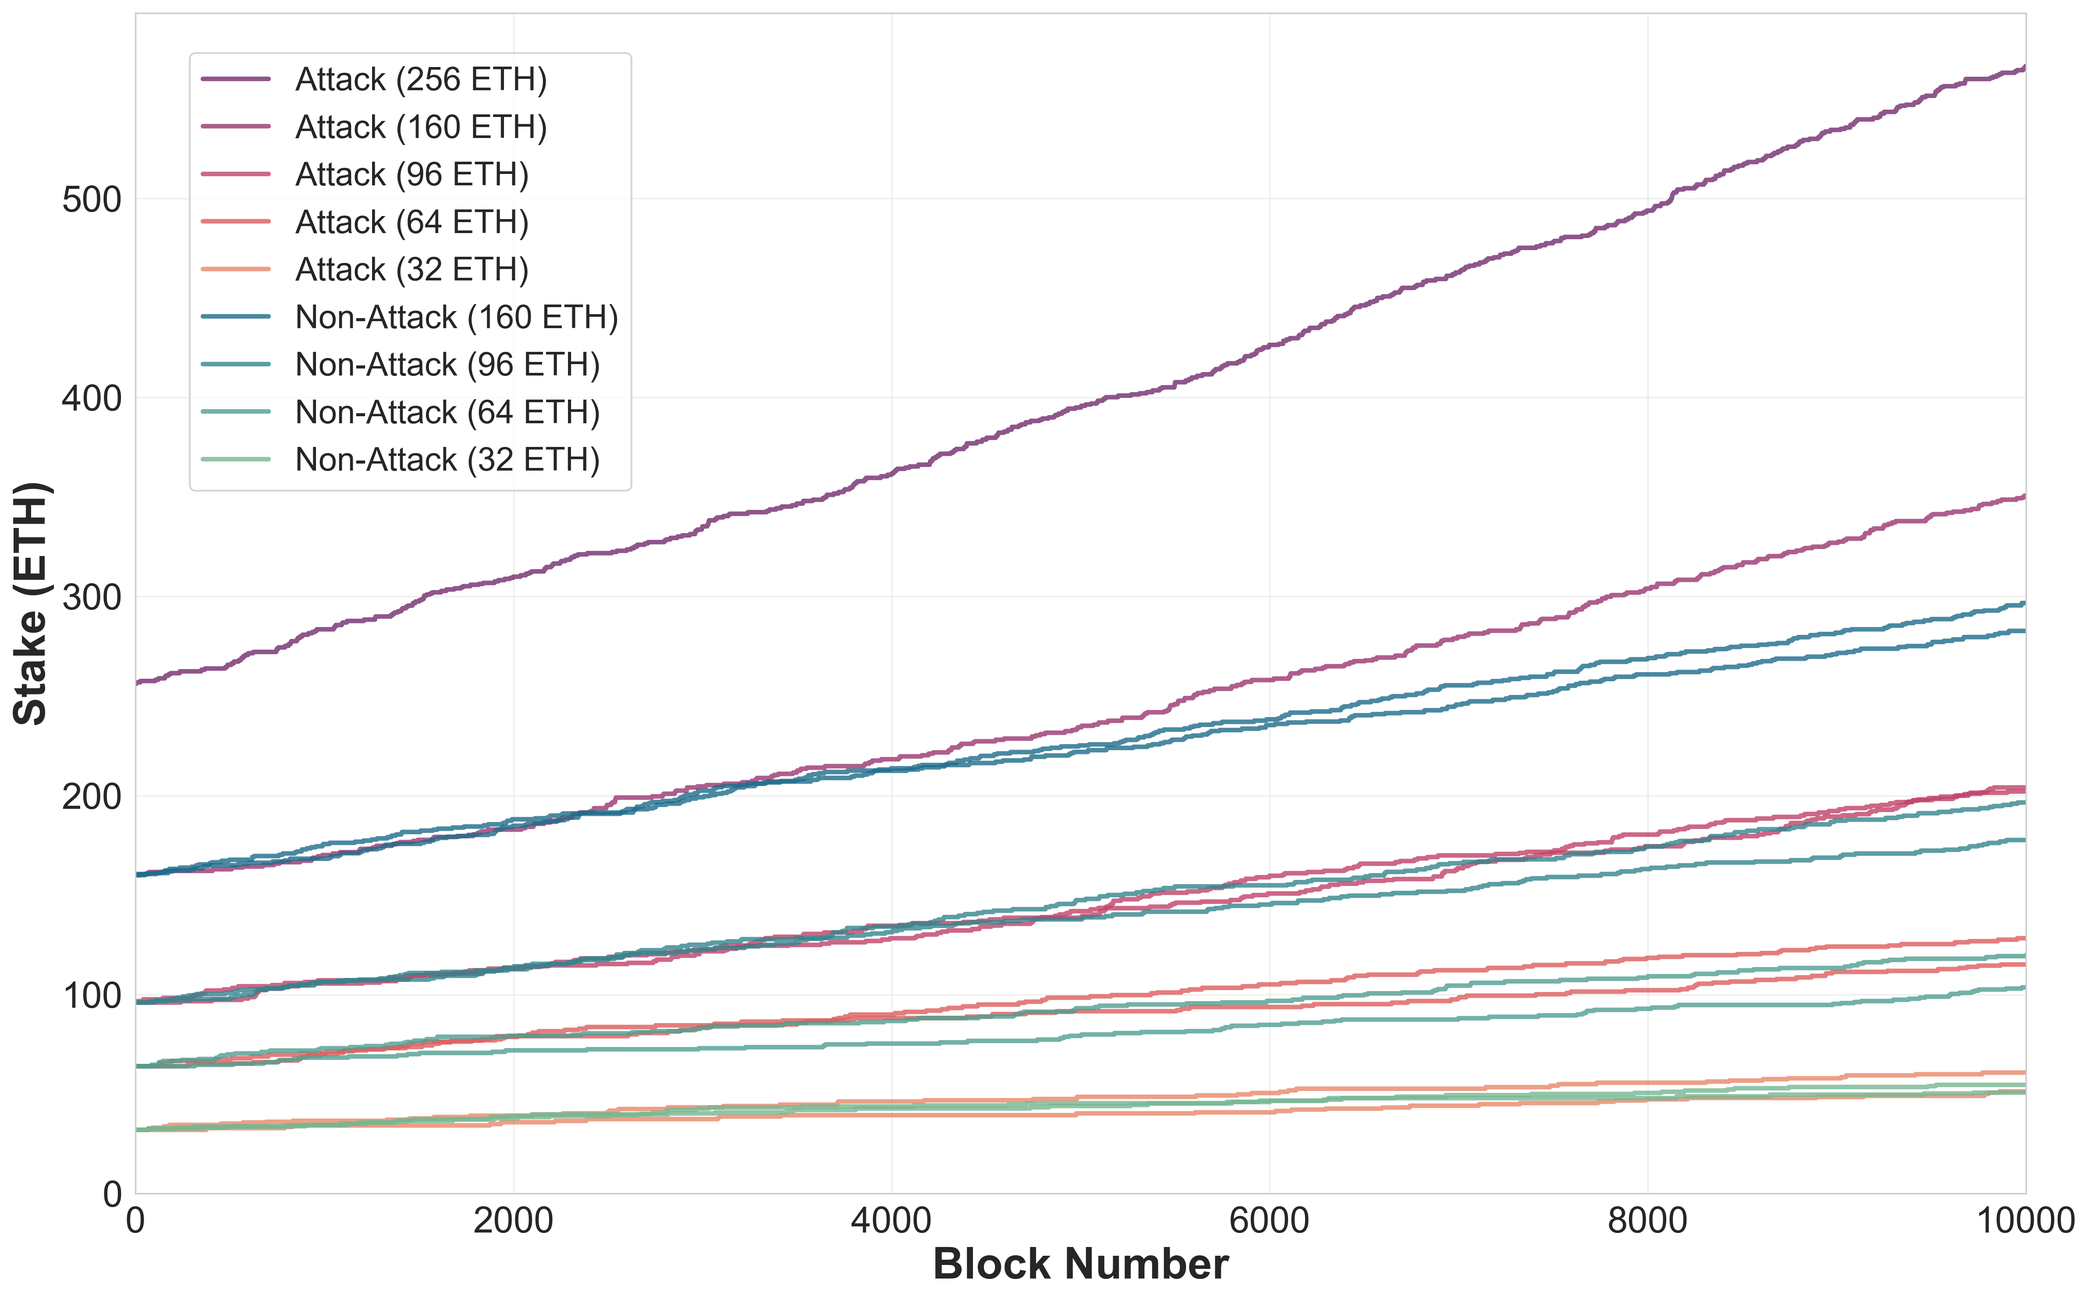
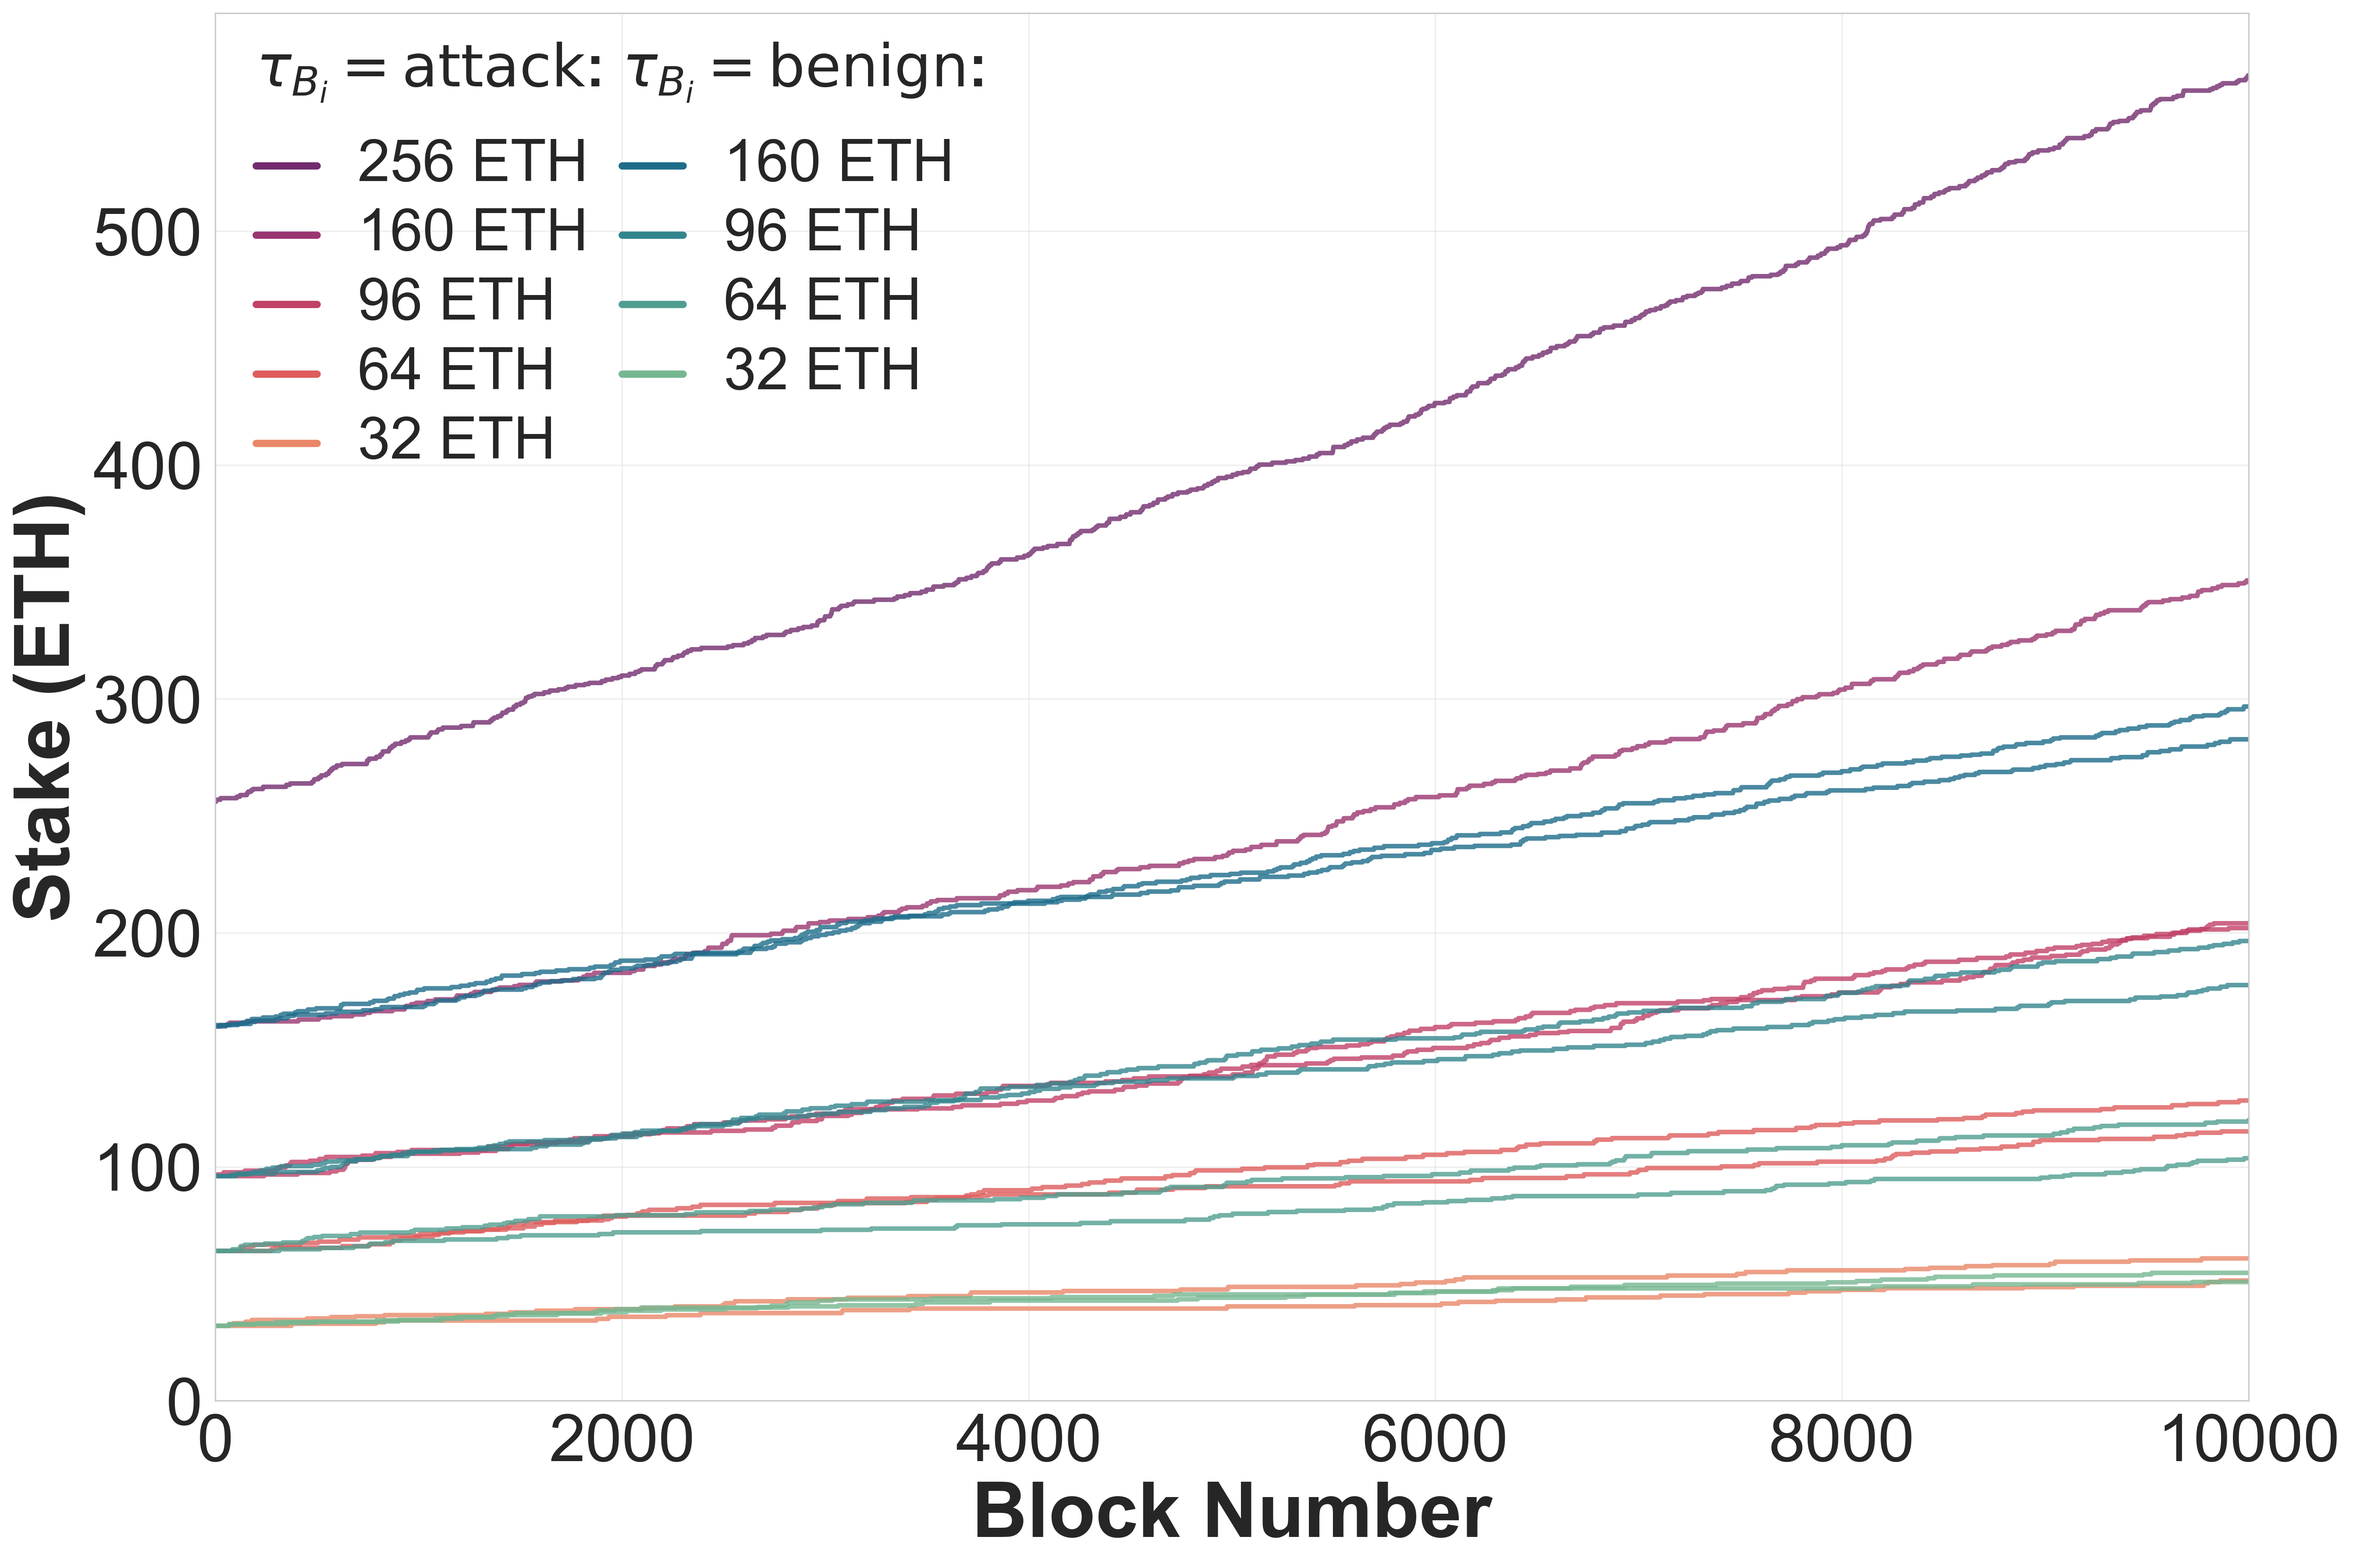
update plot

diff --git a/plots/ss/plot_restaking.py b/plots/ss/plot_restaking.py
@@ -60,7 +60,7 @@ def plot_pos_validators():
     print(f"Missing: {20 - len(all_sampled)} validators due to insufficient data at some stake levels")
     
     # Create the plot
-    plt.figure(figsize=(16, 10))
+    plt.figure(figsize=(18, 12))
     
     # Color palettes: flare for attackers, crest for non-attackers
     attack_colors = sns.color_palette("flare", n_colors=5)
@@ -86,6 +86,7 @@ def plot_pos_validators():
     nonattack_validators_ordered.sort(key=lambda x: x[1], reverse=True)
     
     # Plot attack validators first (high to low stake)
+    attack_labels_added = set()
     for i, (validator_id, initial_stake) in enumerate(attack_validators_ordered):
         validator_data = pos_blocks[pos_blocks['validator_id'] == validator_id]
         
@@ -94,8 +95,9 @@ def plot_pos_validators():
         color = attack_colors[stake_idx]
         
         # Only add label for first occurrence of each stake level
-        if i == 0 or attack_validators_ordered[i-1][1] != initial_stake:
-            label = f"Attack ({initial_stake:.0f} ETH)"
+        if initial_stake not in attack_labels_added:
+            label = f"{initial_stake:.0f} ETH"
+            attack_labels_added.add(initial_stake)
         else:
             label = None
         
@@ -108,6 +110,7 @@ def plot_pos_validators():
                     label=label)
     
     # Then plot non-attack validators (high to low stake)
+    nonattack_labels_added = set()
     for i, (validator_id, initial_stake) in enumerate(nonattack_validators_ordered):
         validator_data = pos_blocks[pos_blocks['validator_id'] == validator_id]
         
@@ -116,8 +119,9 @@ def plot_pos_validators():
         color = nonattack_colors[stake_idx]
         
         # Only add label for first occurrence of each stake level
-        if i == 0 or nonattack_validators_ordered[i-1][1] != initial_stake:
-            label = f"Non-Attack ({initial_stake:.0f} ETH)"
+        if initial_stake not in nonattack_labels_added:
+            label = f"{initial_stake:.0f} ETH"
+            nonattack_labels_added.add(initial_stake)
         else:
             label = None
         
@@ -129,21 +133,72 @@ def plot_pos_validators():
                     alpha=0.8,
                     label=label)
     
-    # Customize the plot with larger fonts
-    plt.xlabel('Block Number', fontsize=24, fontweight='bold')
-    plt.ylabel('Stake (ETH)', fontsize=24, fontweight='bold')
+    # Customize the plot with much larger fonts
+    plt.xlabel('Block Number', fontsize=42, fontweight='bold')
+    plt.ylabel('Stake (ETH)', fontsize=42, fontweight='bold')
     
-    # Increase tick label font sizes
-    plt.xticks(fontsize=20)
-    plt.yticks(fontsize=20)
+    # Increase tick label font sizes significantly
+    plt.xticks(fontsize=36)
+    plt.yticks(fontsize=36)
     
     # Set plot to start at (0,0) and end at 10000 blocks
     plt.xlim(left=0, right=10000)
     plt.ylim(bottom=0)
     
     plt.grid(True, alpha=0.3)
-    # Position legend within the plot area at top left with larger font
-    plt.legend(loc='upper left', fontsize=18, bbox_to_anchor=(0.02, 0.98))
+    
+    # Create custom table-like legend with proper alignment (no box)
+    # Get all unique stakes for both categories
+    attack_stakes = sorted(list(attack_labels_added), reverse=True)
+    benign_stakes = sorted(list(nonattack_labels_added), reverse=True)
+    max_stakes = max(len(attack_stakes), len(benign_stakes))
+    
+    # Position for the legend table with precise spacing
+    legend_x = 0.02
+    legend_y = 0.98
+    row_height = 0.05
+    col_width = 0.18
+    line_length = 0.03
+    
+    # Add column headers with consistent font size and perfect alignment
+    plt.text(legend_x, legend_y, r'$\tau_{V_i} = \text{attack}$:', 
+             transform=plt.gca().transAxes, fontsize=32, weight='bold', va='top')
+    plt.text(legend_x + col_width, legend_y, r'$\tau_{V_i} = \text{benign}$:', 
+             transform=plt.gca().transAxes, fontsize=32, weight='bold', va='top')
+    
+    # Add entries in table format with perfect alignment and more spacing from headers
+    for i in range(max_stakes):
+        row_y = legend_y - row_height * (i + 1.8)
+        
+        # Attack column
+        if i < len(attack_stakes):
+            stake = attack_stakes[i]
+            stake_idx = stake_levels.index(int(stake * 1e9))
+            color = attack_colors[stake_idx]
+            # Colored line
+            plt.plot([legend_x, legend_x + line_length], [row_y, row_y], 
+                    color=color, linewidth=4, transform=plt.gca().transAxes)
+            # Text with perfect alignment
+            plt.text(legend_x + line_length + 0.02, row_y, f'{stake:.0f} ETH', 
+                    transform=plt.gca().transAxes, fontsize=32, va='center', ha='left')
+        
+        # Benign column
+        if i < len(benign_stakes):
+            stake = benign_stakes[i]
+            stake_idx = stake_levels.index(int(stake * 1e9))
+            color = nonattack_colors[stake_idx]
+            # Colored line
+            plt.plot([legend_x + col_width, legend_x + col_width + line_length], [row_y, row_y], 
+                    color=color, linewidth=4, transform=plt.gca().transAxes)
+            # Text with perfect alignment
+            plt.text(legend_x + col_width + line_length + 0.02, row_y, f'{stake:.0f} ETH', 
+                    transform=plt.gca().transAxes, fontsize=32, va='center', ha='left')
+    
+    # Remove any automatic legend that might appear
+    try:
+        plt.gca().legend().remove()
+    except:
+        pass
     
     plt.tight_layout()
     plt.savefig(PROJECT_ROOT / 'figures/restake/pos_validator_stake.png', 
@@ -209,7 +264,7 @@ def plot_pbs_builders():
         print(f"{stake_level} ETH: {attack_count} attack, {nonattack_count} non-attack")
     
     # Create the plot
-    plt.figure(figsize=(16, 10))
+    plt.figure(figsize=(18, 12))
     
     # Color palettes: flare for attackers, crest for non-attackers
     attack_colors = sns.color_palette("flare", n_colors=5)
@@ -235,6 +290,7 @@ def plot_pbs_builders():
     nonattack_builders_ordered.sort(key=lambda x: x[1], reverse=True)
     
     # Plot attack builders first (high to low stake)
+    attack_labels_added = set()
     for i, (participant_id, initial_stake) in enumerate(attack_builders_ordered):
         participant_info = participants_df[participants_df['participant_id'] == participant_id].iloc[0]
         continuous_data = continuous_stake_df[continuous_stake_df['participant_id'] == participant_id]
@@ -245,8 +301,9 @@ def plot_pbs_builders():
             color = attack_colors[stake_idx]
             
             # Only add label for first occurrence of each stake level
-            if i == 0 or attack_builders_ordered[i-1][1] != initial_stake:
-                label = f"Attack ({initial_stake:.0f} ETH)"
+            if initial_stake not in attack_labels_added:
+                label = f"{initial_stake:.0f} ETH"
+                attack_labels_added.add(initial_stake)
             else:
                 label = None
             
@@ -260,6 +317,7 @@ def plot_pbs_builders():
                         label=label)
     
     # Then plot non-attack builders (high to low stake)
+    nonattack_labels_added = set()
     for i, (participant_id, initial_stake) in enumerate(nonattack_builders_ordered):
         participant_info = participants_df[participants_df['participant_id'] == participant_id].iloc[0]
         continuous_data = continuous_stake_df[continuous_stake_df['participant_id'] == participant_id]
@@ -270,8 +328,9 @@ def plot_pbs_builders():
             color = nonattack_colors[stake_idx]
             
             # Only add label for first occurrence of each stake level
-            if i == 0 or nonattack_builders_ordered[i-1][1] != initial_stake:
-                label = f"Non-Attack ({initial_stake:.0f} ETH)"
+            if initial_stake not in nonattack_labels_added:
+                label = f"{initial_stake:.0f} ETH"
+                nonattack_labels_added.add(initial_stake)
             else:
                 label = None
             
@@ -284,21 +343,72 @@ def plot_pbs_builders():
                         alpha=0.8,
                         label=label)
     
-    # Customize the plot with larger fonts
-    plt.xlabel('Block Number', fontsize=24, fontweight='bold')
-    plt.ylabel('Stake (ETH)', fontsize=24, fontweight='bold')
+    # Customize the plot with much larger fonts
+    plt.xlabel('Block Number', fontsize=42, fontweight='bold')
+    plt.ylabel('Stake (ETH)', fontsize=42, fontweight='bold')
     
-    # Increase tick label font sizes
-    plt.xticks(fontsize=20)
-    plt.yticks(fontsize=20)
+    # Increase tick label font sizes significantly
+    plt.xticks(fontsize=36)
+    plt.yticks(fontsize=36)
     
     # Set plot to start at (0,0) and end at 10000 blocks
     plt.xlim(left=0, right=10000)
     plt.ylim(bottom=0)
     
     plt.grid(True, alpha=0.3)
-    # Position legend within the plot area at top left with larger font
-    plt.legend(loc='upper left', fontsize=18, bbox_to_anchor=(0.02, 0.98))
+    
+    # Create custom table-like legend with proper alignment (no box)
+    # Get all unique stakes for both categories
+    attack_stakes = sorted(list(attack_labels_added), reverse=True)
+    benign_stakes = sorted(list(nonattack_labels_added), reverse=True)
+    max_stakes = max(len(attack_stakes), len(benign_stakes))
+    
+    # Position for the legend table with precise spacing
+    legend_x = 0.02
+    legend_y = 0.98
+    row_height = 0.05
+    col_width = 0.18
+    line_length = 0.03
+    
+    # Add column headers with consistent font size and perfect alignment
+    plt.text(legend_x, legend_y, r'$\tau_{B_i} = \text{attack}$:', 
+             transform=plt.gca().transAxes, fontsize=32, weight='bold', va='top')
+    plt.text(legend_x + col_width, legend_y, r'$\tau_{B_i} = \text{benign}$:', 
+             transform=plt.gca().transAxes, fontsize=32, weight='bold', va='top')
+    
+    # Add entries in table format with perfect alignment and more spacing from headers
+    for i in range(max_stakes):
+        row_y = legend_y - row_height * (i + 1.8)
+        
+        # Attack column
+        if i < len(attack_stakes):
+            stake = attack_stakes[i]
+            stake_idx = stake_levels.index(int(stake))
+            color = attack_colors[stake_idx]
+            # Colored line
+            plt.plot([legend_x, legend_x + line_length], [row_y, row_y], 
+                    color=color, linewidth=4, transform=plt.gca().transAxes)
+            # Text with perfect alignment
+            plt.text(legend_x + line_length + 0.02, row_y, f'{stake:.0f} ETH', 
+                    transform=plt.gca().transAxes, fontsize=32, va='center', ha='left')
+        
+        # Benign column
+        if i < len(benign_stakes):
+            stake = benign_stakes[i]
+            stake_idx = stake_levels.index(int(stake))
+            color = nonattack_colors[stake_idx]
+            # Colored line
+            plt.plot([legend_x + col_width, legend_x + col_width + line_length], [row_y, row_y], 
+                    color=color, linewidth=4, transform=plt.gca().transAxes)
+            # Text with perfect alignment
+            plt.text(legend_x + col_width + line_length + 0.02, row_y, f'{stake:.0f} ETH', 
+                    transform=plt.gca().transAxes, fontsize=32, va='center', ha='left')
+    
+    # Remove any automatic legend that might appear
+    try:
+        plt.gca().legend().remove()
+    except:
+        pass
     
     plt.tight_layout()
     plt.savefig(PROJECT_ROOT / 'figures/restake/pbs_builder_stake.png', 
@@ -351,7 +461,7 @@ def plot_pbs_proposers():
     proposers_ordered.sort(key=lambda x: x[1], reverse=True)
     
     # Create the plot
-    plt.figure(figsize=(16, 10))
+    plt.figure(figsize=(18, 12))
     
     # Color palette: crest for non-attackers (all proposers are non-attack)
     nonattack_colors = sns.color_palette("crest", n_colors=5)
@@ -382,21 +492,22 @@ def plot_pbs_proposers():
                         alpha=0.8,
                         label=label)
     
-    # Customize the plot with larger fonts
-    plt.xlabel('Block Number', fontsize=24, fontweight='bold')
-    plt.ylabel('Stake (ETH)', fontsize=24, fontweight='bold')
+    # Customize the plot with much larger fonts
+    plt.xlabel('Block Number', fontsize=42, fontweight='bold')
+    plt.ylabel('Stake (ETH)', fontsize=42, fontweight='bold')
     
-    # Increase tick label font sizes
-    plt.xticks(fontsize=20)
-    plt.yticks(fontsize=20)
+    # Increase tick label font sizes significantly
+    plt.xticks(fontsize=36)
+    plt.yticks(fontsize=36)
     
     # Set plot to start at (0,0) and end at 10000 blocks
     plt.xlim(left=0, right=10000)
     plt.ylim(bottom=0)
     
     plt.grid(True, alpha=0.3)
-    # Position legend within the plot area at top left with larger font
-    plt.legend(loc='upper left', fontsize=18, bbox_to_anchor=(0.02, 0.98))
+    
+    # Position legend within the plot area at top left with much larger font (no box)
+    plt.legend(loc='upper left', fontsize=32, bbox_to_anchor=(0.02, 0.98), frameon=False)
     
     plt.tight_layout()
     plt.savefig(PROJECT_ROOT / 'figures/restake/pbs_proposer_stake.png', 
